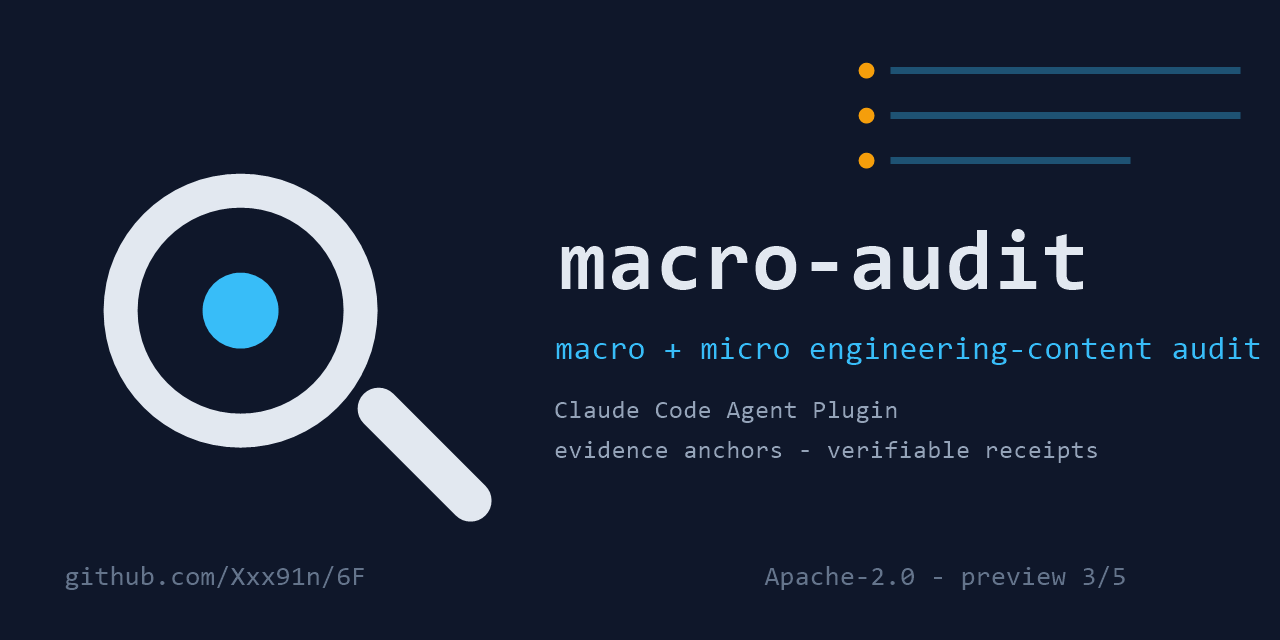
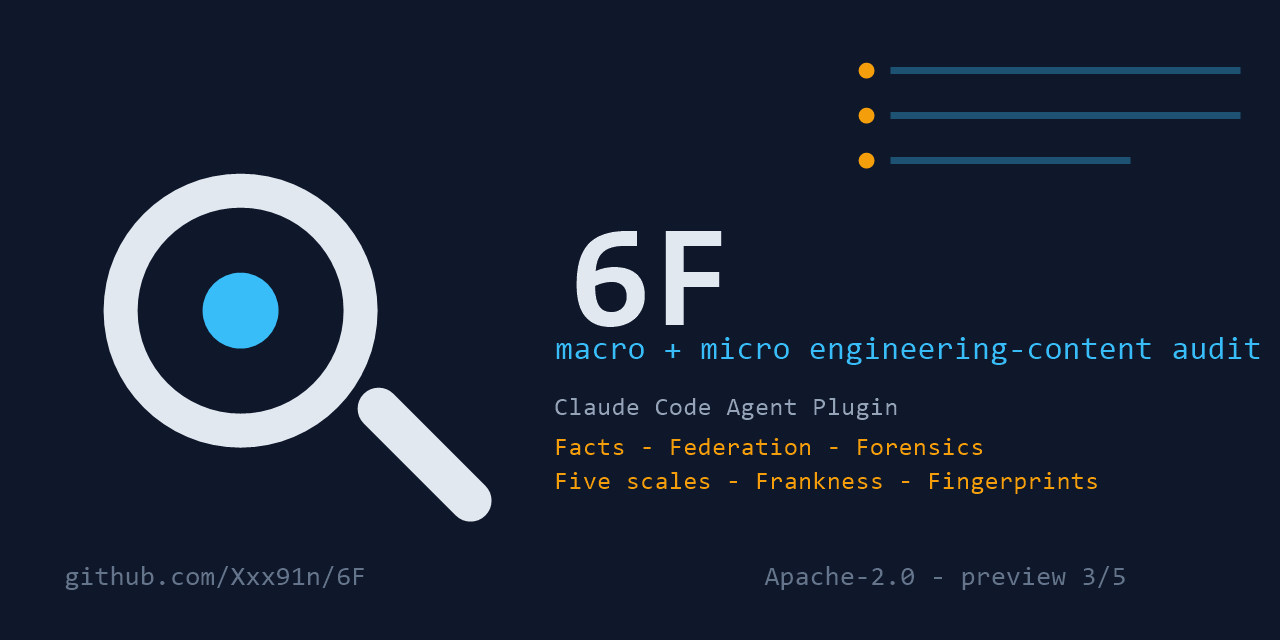
feat(facade): T1/#74 6F 正名＋六-F 宣言（D-092/D-093）——双 README H1/锚点/徽章、hero/social-card 重绘、listing displayName、engine kernel-codename 注记、73-check preview 徽章放行

diff --git a/README.zh-CN.md b/README.zh-CN.md
@@ -1,13 +1,13 @@
 <!-- canonical: README.md | owner: Xxx91n -->
-<!-- sync: 69e5b6eb1c72 -->
+<!-- sync: c1096e8405f7 -->
 > ⚠ **本文件为中文译文（derived 工件）——英文版 [README.md](README.md) 为权威版本（canonical 权威源）；如有不一致以英文版为准。** 译文可暂时落后，但不假装新鲜（sync 戳与英文版内容指纹绑定）。
 
 <p align="center">
-  <img src="docs/assets/hero.svg" alt="macro-audit — macro + micro engineering-content audit" width="880"/>
+  <img src="docs/assets/hero.svg" alt="6F — macro + micro engineering-content audit" width="880"/>
 </p>
 
 <a id="macro-audit"></a>
-# macro-audit — 宏观 + 微观工程内容审计 {#macro-audit}
+# 6F — 宏观 + 微观工程内容审计 {#6f}
 
 <p align="center">
   <a href="LICENSE"><img src="https://img.shields.io/badge/license-Apache--2.0-38bdf8" alt="License: Apache-2.0"/></a>
@@ -19,6 +19,19 @@
 <p align="center"><a href="README.md">English</a> &middot; <a href="README.zh-CN.md">&#31616;&#20307;&#20013;&#25991;</a></p>
 
 面向 git 记录健全仓库的工程内容审计产品——**Claude Code Agent Plugin**：证据采集大部分来自上游组合件，裁决协议、事实表 schema、验收闸门与可核验回执是本项目自研的护城河与黏合剂。5 档审计粒度（Macro-A 跨仓战略 / Macro-B 仓库级四象限 / Macro-C 演化考古 / Micro-A PR diff / Micro-B file level）共享同一事实底座与裁决层，差异在触发器与报告切片。
+
+<a id="highlights"></a>
+## 亮点 {#highlights}
+
+- **Facts（事实）** — 一张只追加事实表收纳全部声明（Hub-of-Facts，ADR-0005）。
+- **Federation（联邦）** — 联邦 verdict-gate 协议裁决每条裁定（ADR-0005）。
+- **Forensics（考古）** — 演化考古把仓库历史挖成证据（Macro-C）。
+- **Five scales（五尺度）** — 五档审计粒度共用同一事实底座（ADR-0001）。
+- **Frankness（诚实）** — preview／降级／`synthetic` 印记自我标注（ADR-0017）。
+- **Fingerprints（指纹）** — 每条裁定随附双锚可核验回执。
+
+<img src="https://img.shields.io/badge/status-preview-f59e0b" alt="Status: preview"/>
+
 
 > [!NOTE]
 > 当前状态（2026-09-20）：**preview 形态**（能力边界见下节矩阵）——Macro-B / Macro-C / Micro-A 三层 preview；Micro-B / Macro-A 为 **Not yet in preview**（roadmap 叙事非可用承诺）。插件可经 marketplace 安装（`claude plugin marketplace add Xxx91n/6F` → `/plugin install 6f@xxx91n`，安装/验收口径见 [engine/README.md](engine/README.md)；B 轨官方目录未提交、走用户闸门）；「发布未发生·不存在可安装 listing」旧态已由 marketplace 上架终结。表中标注「planned」的上游尚未接入，请勿据本页认为产品已完成。产品语面（审计报告、listing 文案）以中文为主；本文件是 [README.md](README.md) 的派生译文。

diff --git a/README.md b/README.md
@@ -1,8 +1,9 @@
 <p align="center">
-  <img src="docs/assets/hero.svg" alt="macro-audit — macro + micro engineering-content audit" width="880"/>
+  <img src="docs/assets/hero.svg" alt="6F — macro + micro engineering-content audit" width="880"/>
 </p>
 
-# macro-audit
+<a id="macro-audit"></a>
+# 6F
 
 <p align="center">
   <a href="LICENSE"><img src="https://img.shields.io/badge/license-Apache--2.0-38bdf8" alt="License: Apache-2.0"/></a>
@@ -14,6 +15,18 @@
 <p align="center"><a href="README.md">English</a> &middot; <a href="README.zh-CN.md">&#31616;&#20307;&#20013;&#25991;</a></p>
 
 Macro + micro engineering-content audit for git-healthy repositories — a **Claude Code Agent Plugin**. Evidence collection comes largely from upstream components; the adjudication protocol, fact-table schema, acceptance gates, and verifiable receipts are this project's self-built moat and glue. Five audit scales (Macro-A cross-repo strategy / Macro-B repo quadrant / Macro-C evolution archaeology / Micro-A PR diff / Micro-B file level) share one fact base and one adjudication layer — they differ in triggers and report slices.
+
+## Highlights
+
+- **Facts** — one append-only fact table collects every claim (Hub-of-Facts, ADR-0005).
+- **Federation** — a federated verdict-gate protocol adjudicates every verdict (ADR-0005).
+- **Forensics** — evolution archaeology digs repository history into evidence (Macro-C).
+- **Five scales** — five audit granularities share that one fact base (ADR-0001).
+- **Frankness** — preview, degraded, and `synthetic` marks label themselves (ADR-0017).
+- **Fingerprints** — every verdict ships a dual-anchored, verifiable receipt.
+
+<img src="https://img.shields.io/badge/status-preview-f59e0b" alt="Status: preview"/>
+
 
 > [!NOTE]
 > Status (2026-09-20): **preview** (capability boundaries in the matrix below). Macro-B / Macro-C / Micro-A are in preview; Micro-B / Macro-A are **Not yet in preview** — roadmap narrative, not a usable promise. The plugin is installable today via the marketplace (`claude plugin marketplace add Xxx91n/6F` → `/plugin install 6f@xxx91n`; install & acceptance details in [engine/README.md](engine/README.md); the official-catalog track is unsubmitted and sits behind the owner's gate). The previous 「发布未发生·不存在可安装 listing」 state was ended by marketplace onboarding. Upstreams marked "planned" are not wired yet — do not read this page as a finished product. Product-facing surfaces (audit reports, listing copy) are primarily in Chinese; this file is the canonical English facade.

diff --git a/engine/README.md b/engine/README.md
@@ -1,6 +1,7 @@
 # macro-audit — engine（6F 单仓子目录 · walking skeleton）
 
 > 位于 6F 单仓的 engine/ 子目录（per ADR-0011：单仓 + 子目录 + but 分支）。spec/契约来源：.scratch/architecture-recovery/spec.md ## R2。
+> kernel 代号注记：`macro-audit` 为 kernel 技术标识（CLI/bin、MCP 服务名 `macro-audit-kernel`、skills 路径保留不动）；门面品牌名 = **6F**（双名分层 D-093——内部名故意不同于营销名=纪律非债）。
 
 ## 结构（Agent Plugin 五层盒子）
 - plugin.json（标准）/ .claude-plugin/plugin.json（Claude Code 原生）—— 由 manifest.meta.json 单一元数据源生成

diff --git a/docs/listing/description.md b/docs/listing/description.md
@@ -8,7 +8,7 @@
 
 ## displayName
 
-`Macro Audit`（/plugin UI 显示名）
+`6F`（/plugin UI 显示名）　·　**变更注记**：原值 `Macro Audit` → `6F`（2026-09-22，D-092/D-093 门面正名波及面——displayName=生态定义的可变半区，修订走注记非静默重写；冻结面其余字段不动）
 
 ## description（短，≤1 行）
 
